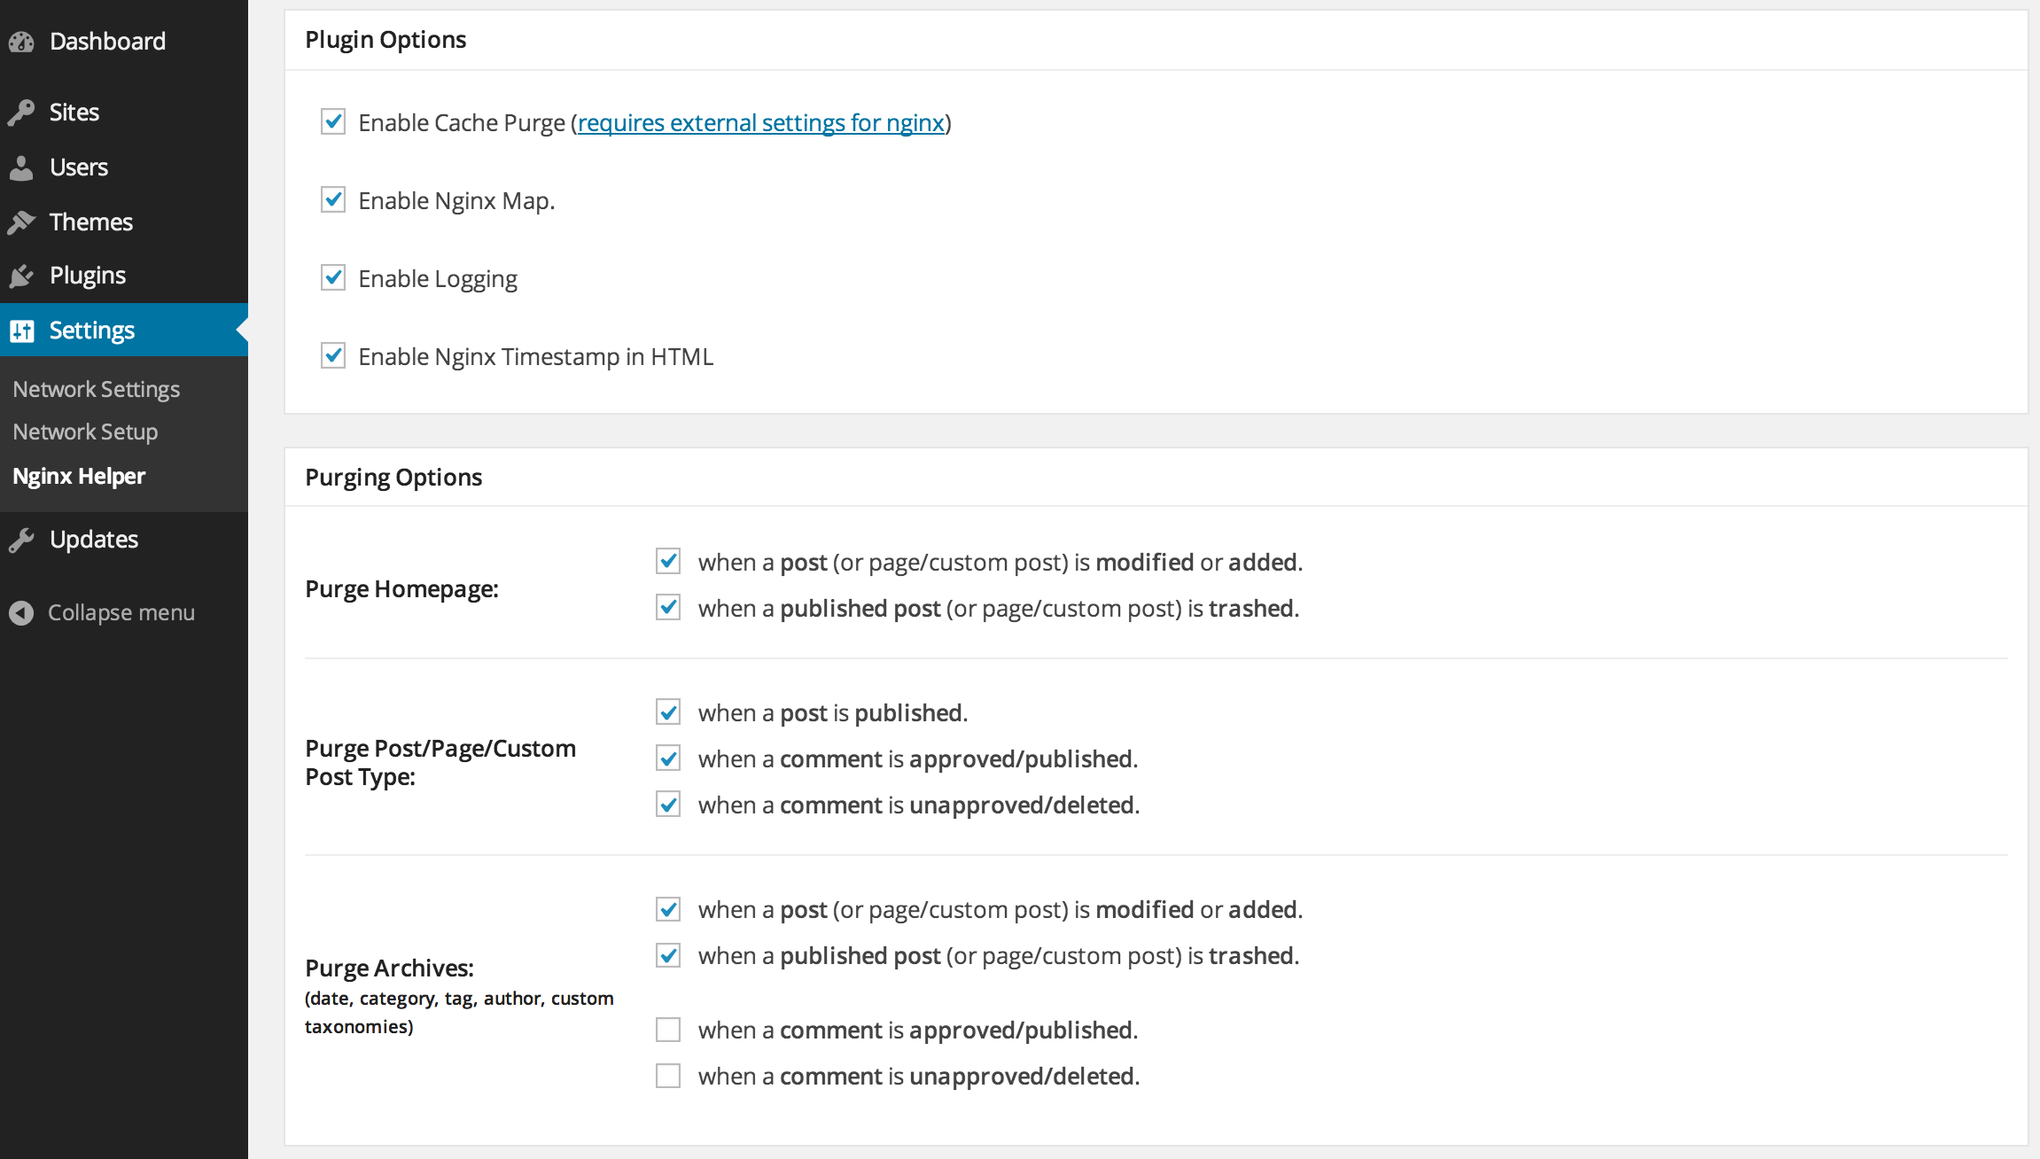
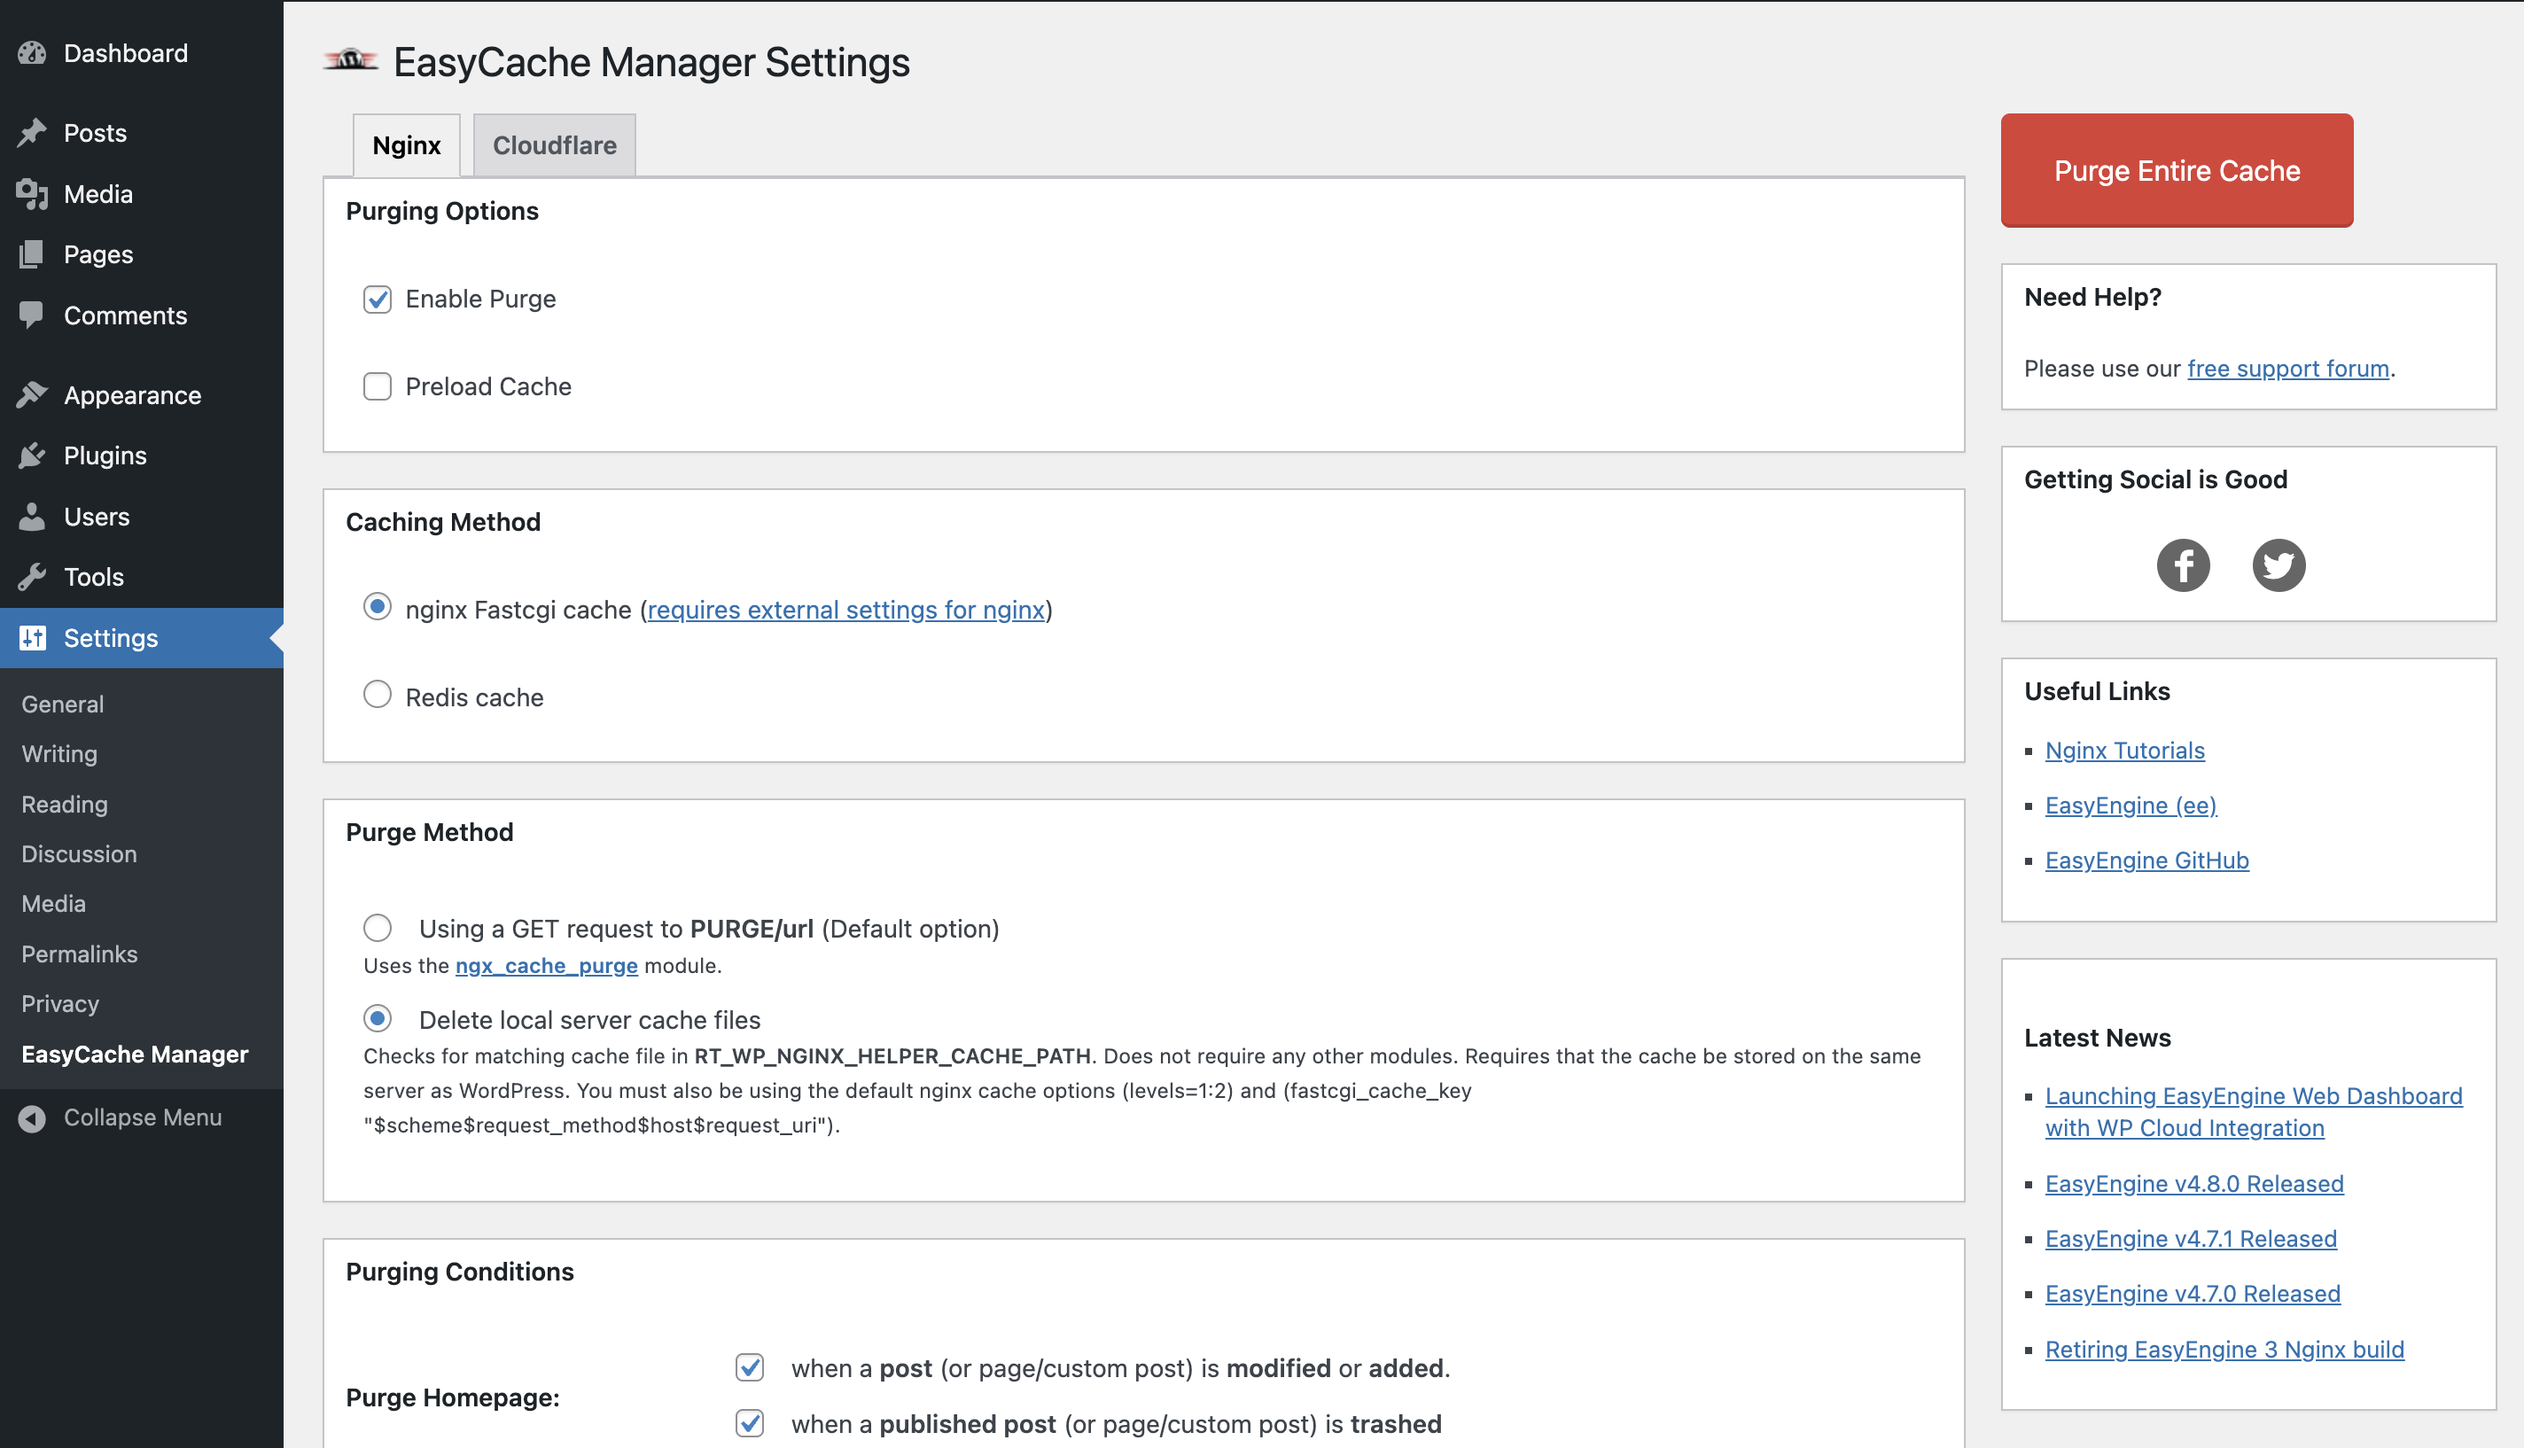
doc: update description for readme

diff --git a/nginx-helper.php b/nginx-helper.php
@@ -1,8 +1,8 @@
 <?php
 /**
- * Plugin Name:       EasyCache Manager
+ * Plugin Name:       EasyCache Manager (formerly Nginx Helper)
  * Plugin URI:        https://rtcamp.com/nginx-helper/
- * Description:       Cleans nginx's fastcgi/proxy cache or redis-cache whenever a post is edited/published. Also does few more things.
+ * Description:       Cleans nginx's fastcgi/proxy cache or redis-cache whenever a post is edited/published. Also provides cloudflare edge cache purging with Cache-Tags.
  * Version:           2.3.5
  * Author:            rtCamp
  * Author URI:        https://rtcamp.com

diff --git a/README.md b/README.md
@@ -1,4 +1,4 @@
-# Nginx Helper #
+# EasyCache Manager (formerly Nginx Helper) #
 [![Project Status: Active – The project has reached a stable, usable state and is being actively developed.](https://www.repostatus.org/badges/latest/active.svg)](https://www.repostatus.org/#active)
 
 **Contributors:** rtcamp, rahul286, saurabhshukla, manishsongirkar36, faishal, desaiuditd, darren-slatten, jk3us, daankortenbach, telofy, pjv, llonchj, jinnko, weskoop, bcole808, gungeekatx, rohanveer, chandrapatel, gagan0123, ravanh, michaelbeil, samedwards, niwreg, entr, nuvoPoint, iam404, rittesh.patel, vishalkakadiya, BhargavBhandari90, bryant1410, 1gor, matt-h, dotsam, nathanielks, rigagoogoo, dslatten, jinschoi, kelin1003, vaishuagola27, rahulsprajapati, utkarshpatel, gsayed786, shashwatmittal, sudhiryadav, thrijith, stayallive, jaredwsmith, abhijitrakas, umeshnevase, sid177, souptik, arafatkn, subscriptiongroup, akrocks, vedantgandhi28, GridPane, stefanfisk, SGr33n, agvs, diepbui4157, pratiklondhe, webdados, ghost, ravanh, tjalexander70, mrrobot47, alexliii, joelmcdwebworks, bozzmedia, millionleave, kubajosef, alexsina, tomeryatir, minzak, peterdowney01, rayeason
@@ -17,7 +17,7 @@
 
 **Donate Link:** http://rt.cx/eedonate
 
-Cleans nginx's fastcgi/proxy cache or redis-cache whenever a post is edited/published. Also does a few more things.
+Cleans nginx's fastcgi/proxy cache or redis-cache whenever a post is edited/published. Also provides cloudflare edge cache purging with Cache-Tags.
 
 ## Description ##
 
@@ -25,6 +25,7 @@ Cleans nginx's fastcgi/proxy cache or redis-cache whenever a post is edited/publ
 1. Adds support for purging redis-cache when used as full-page cache created using [nginx-srcache-module](https://github.com/openresty/srcache-nginx-module#caching-with-redis)
 1. Adds support for nginx fastcgi_cache_purge & proxy_cache_purge directive from [module](https://github.com/FRiCKLE/ngx_cache_purge "ngx_cache_purge module"). Provides settings so you can customize purging rules.
 1. Adds support for nginx `map{..}` on a WordPress-multisite network installation. Using it, Nginx can serve PHP file uploads even if PHP/MySQL crashes. Please check the tutorial list below for related Nginx configurations.
+1. Add support for purging on Cloudflare Edge Cache with Cache-Tags.
 
 ### Tutorials ###
 
@@ -78,12 +79,12 @@ Yes. It handles all post-types the same way.
 
 **Q. How can I purge cache automatically after WordPress/plugin/theme updates?**
 
-By default, Nginx Helper does **not** purge cache on WordPress core, plugin, or theme updates.  
+By default, Nginx Helper does **not** purge cache on WordPress core, plugin, or theme updates.
 If you want this behavior, you can enable it using a filter:
 
 `add_filter( 'rt_wp_nginx_helper_enable_auto_purge_on_any_update', '__return_true' );`
 
-Once enabled, cache will be purged automatically whenever WordPress core, plugins, or themes are updated.  
+Once enabled, cache will be purged automatically whenever WordPress core, plugins, or themes are updated.
 If left disabled (default), Nginx Helper will instead show an admin notice after updates, reminding you to purge cache manually.
 
 **Q. How do I know my Nginx config is correct for fastcgi purging?**
@@ -179,13 +180,13 @@ Please post your problem in [our free support forum](https://github.com/rtCamp/n
 
 ## Screenshots ##
 
-### 1. Nginx plugin settings ###
+### 1. Nginx settings ###
 
-![Nginx plugin settings](https://ps.w.org/nginx-helper/assets/screenshot-1.png)
+![Nginx plugin settings](wpassets/screenshot-1.png)
 
-### 2. Remaining settings ###
+### 2. Cloudflare settings ###
 
-![Remaining settings](https://ps.w.org/nginx-helper/assets/screenshot-2.png)
+![Remaining settings](wpassets/screenshot-2.png)
 
 ## Changelog ##
 
